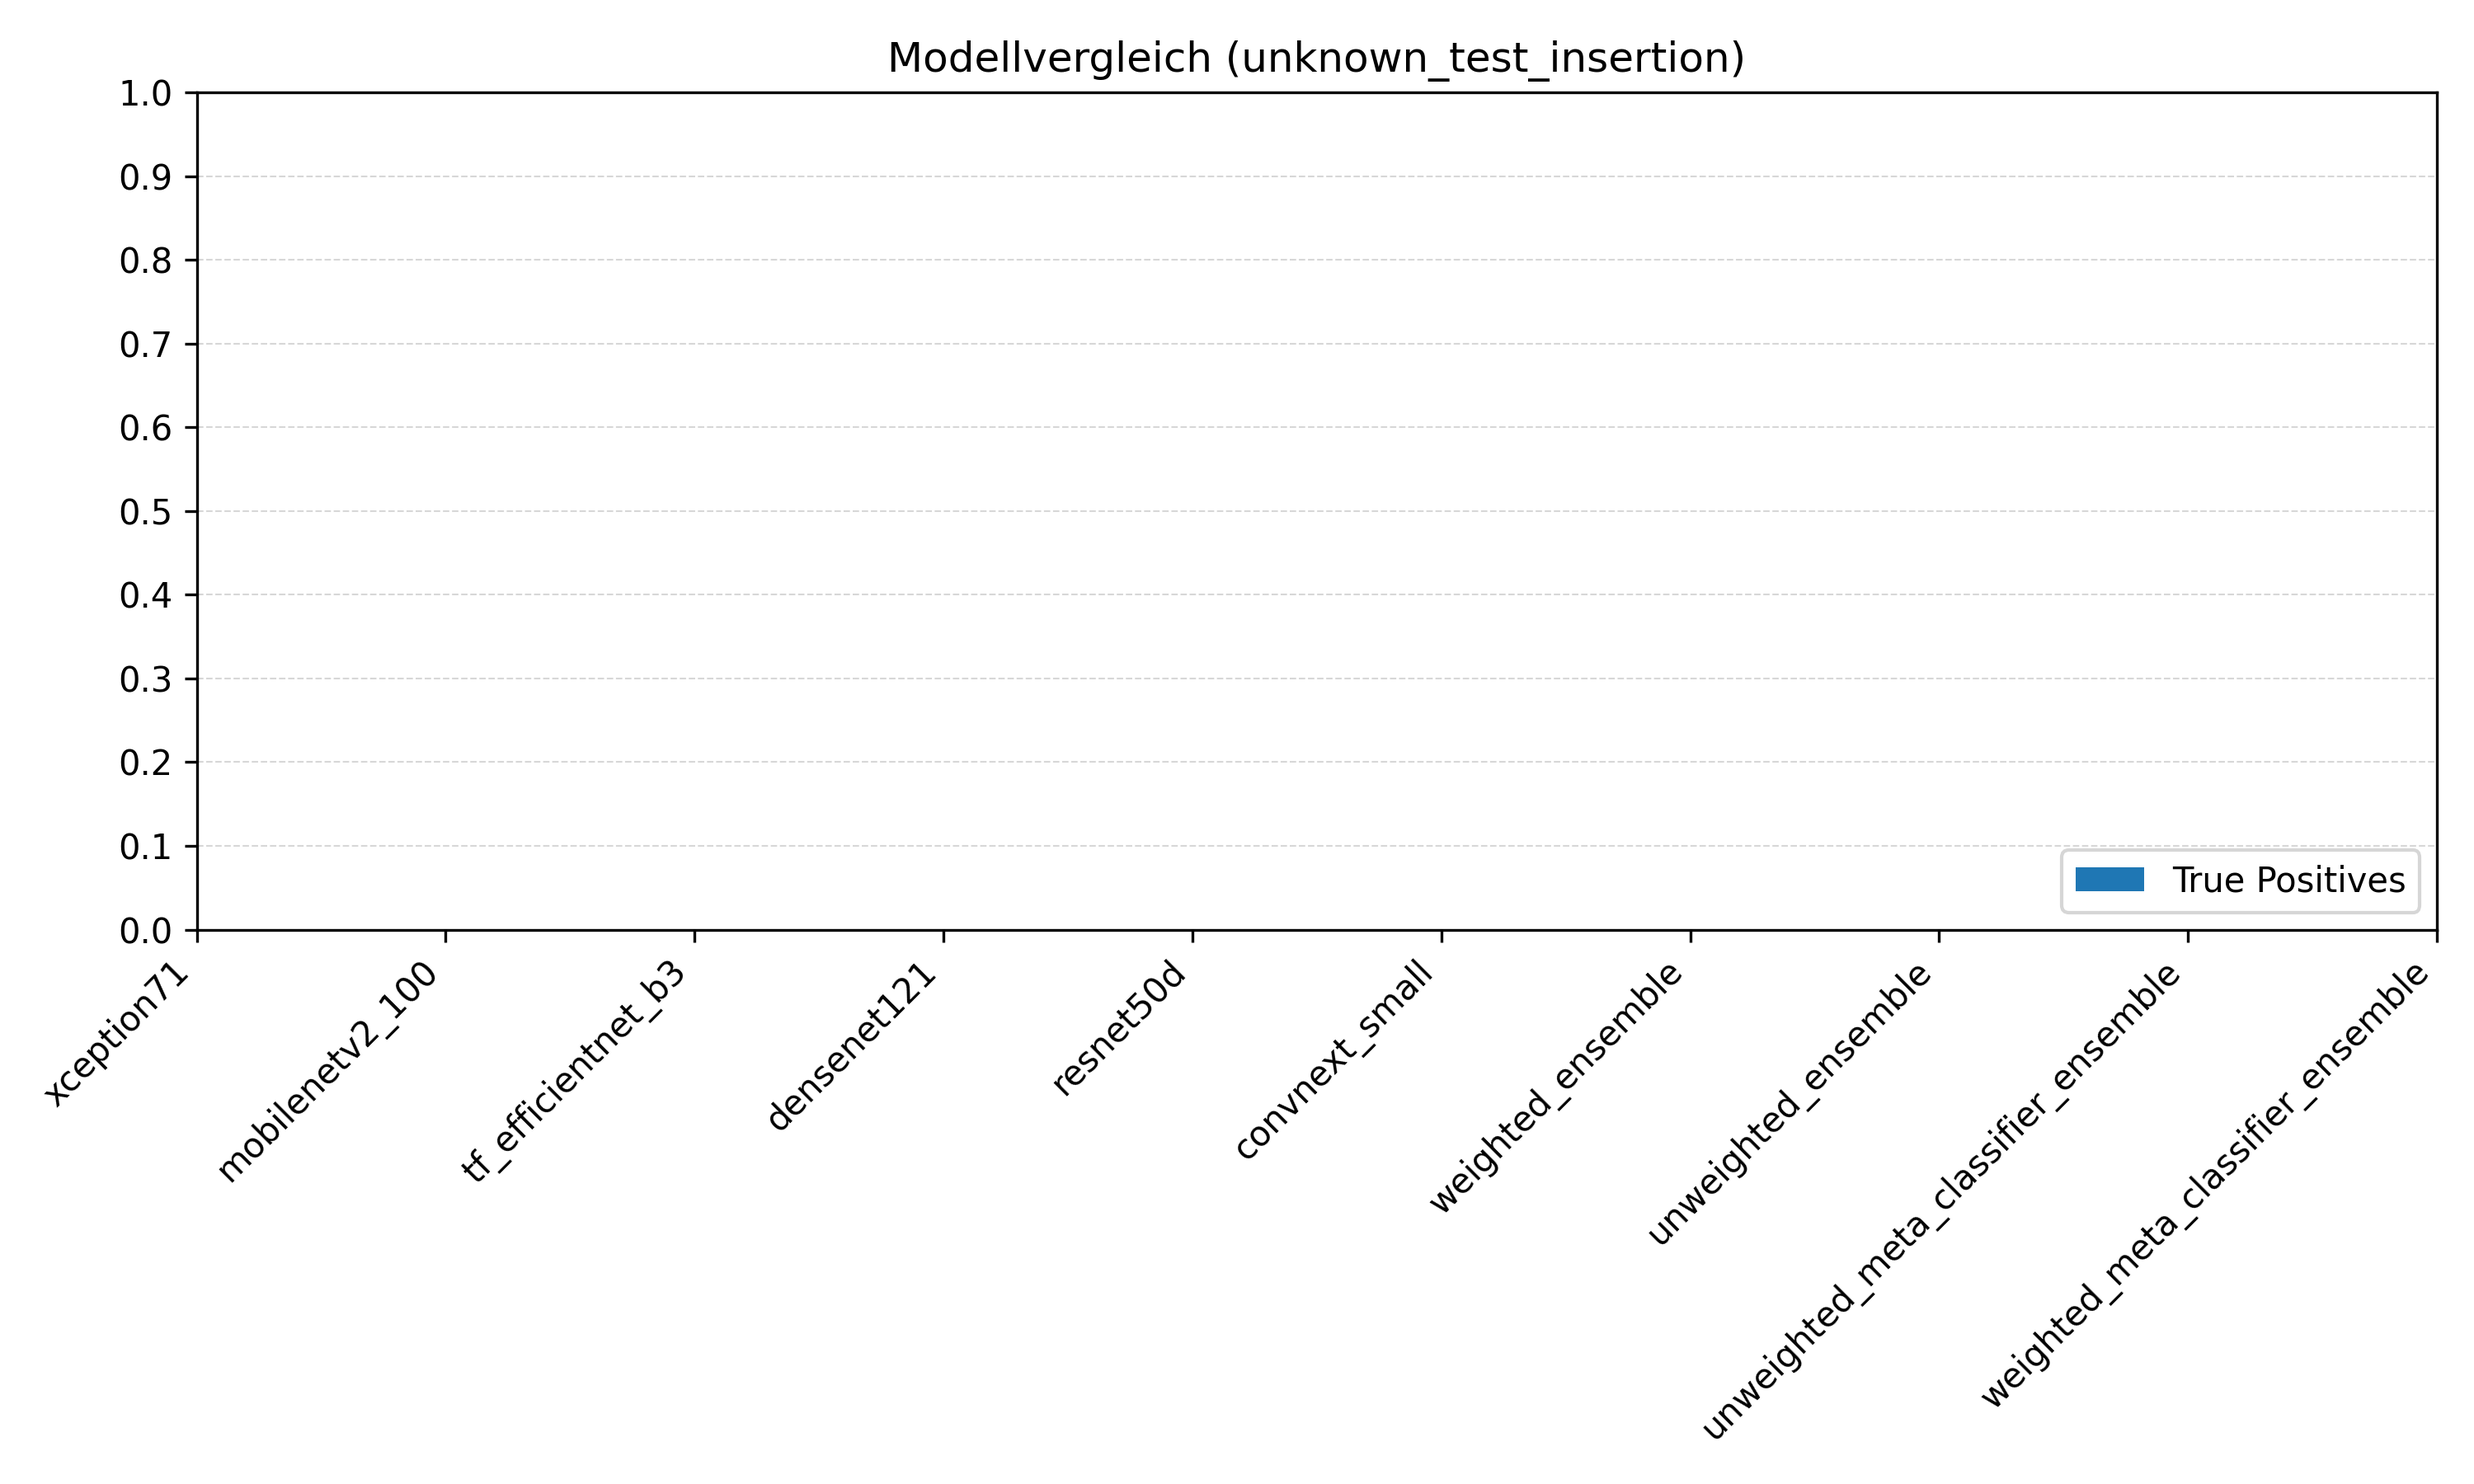
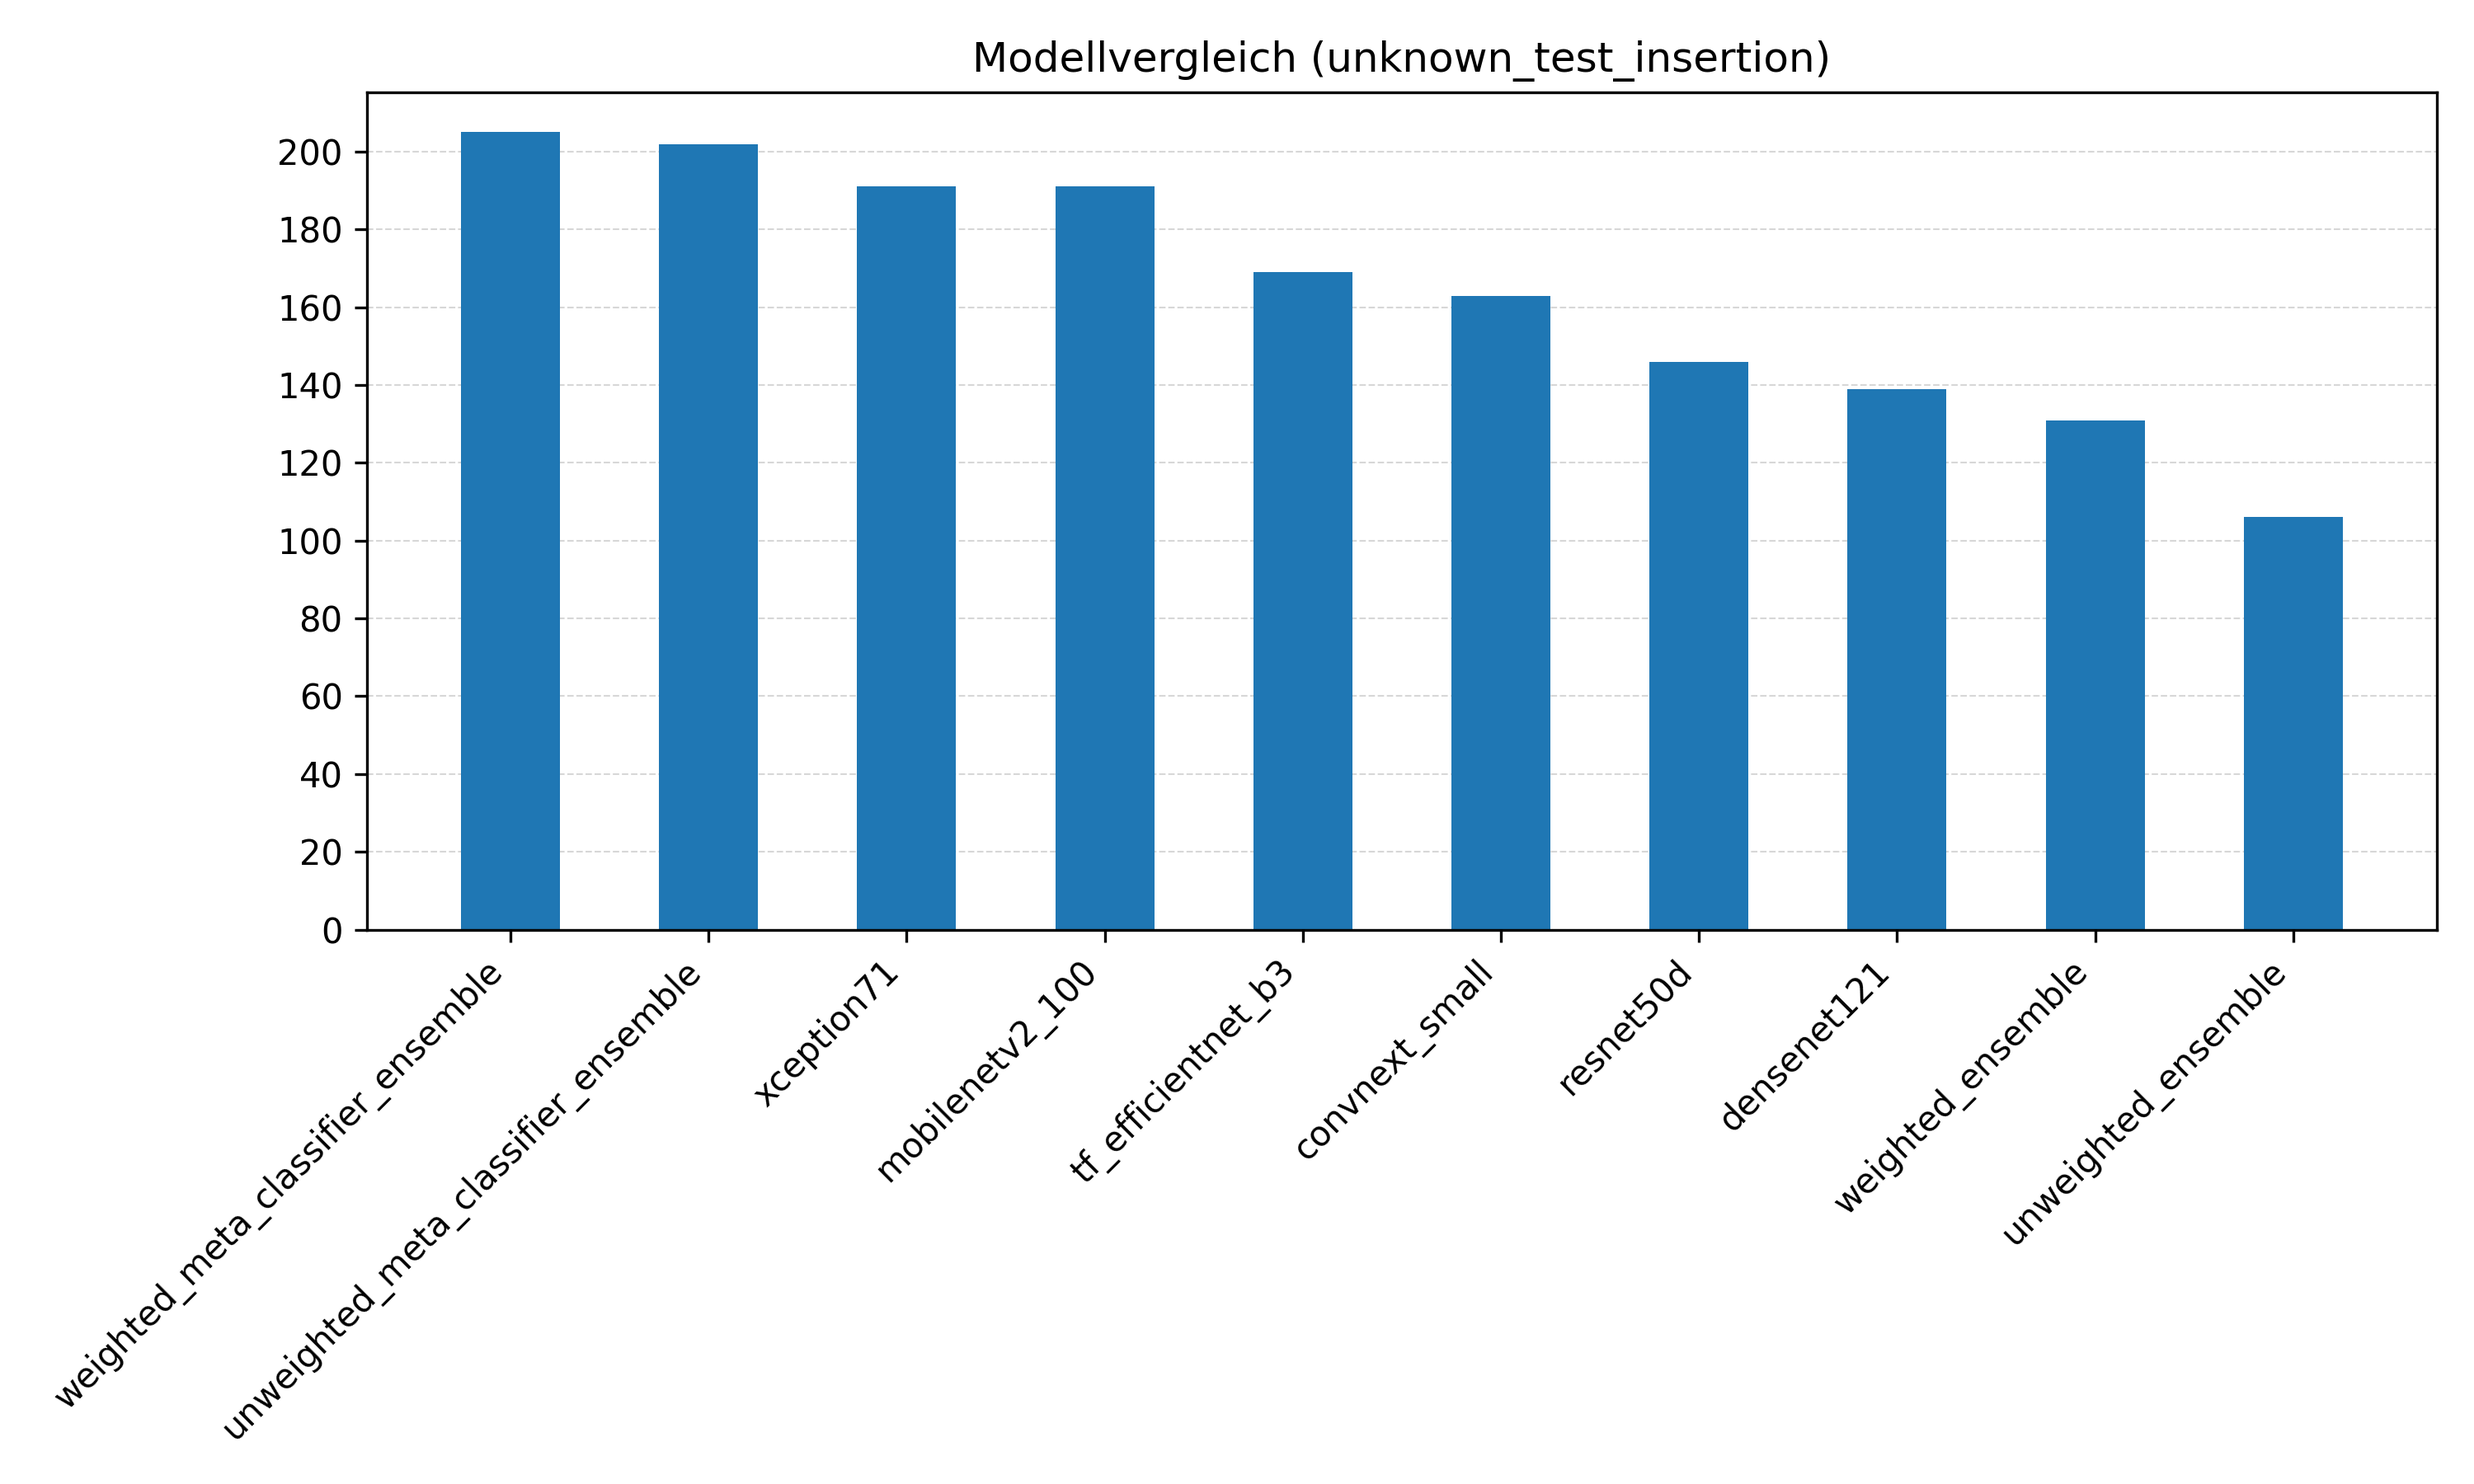
Fix TP value and improve bar plot in get_result_plots.py
Corrects the 'TP' value to use 'TN' in the data dictionary, updates the bar plot to use correct x-axis values, and adjusts y-axis locator for better visualization. Also removes unnecessary print statements and legend for cleaner output. Updates related comparison plot images.

diff --git a/utils/get_result_plots.py b/utils/get_result_plots.py
@@ -109,7 +109,7 @@ def get_test_plots():
             df = df.loc[df['TestVariante'] == variante]
             if df.empty:
                 continue
-            print(df.head())
+
             data.append({
                 "Model": model,
                 "Accuracy": df["Accuracy"].iloc[0],
@@ -117,7 +117,7 @@ def get_test_plots():
                 "Recall": df["Recall"].iloc[0],
                 "F1-Score": df["F1-Score"].iloc[0],
                 "ROC-AUC": df["ROC-AUC"].iloc[0],
-                "TP": df["TP"].iloc[0]
+                "TP": df["TN"].iloc[0]
             })
 
         if variante in ["known_test_insertion", "unknown_test_insertion"]:
@@ -138,21 +138,18 @@ def get_test_plots():
         # === Plot vorbereiten ===
         if variante in ["known_test_insertion", "unknown_test_insertion"]:
             x = np.arange(len(models))
-            width = 0.5
 
             fig, ax = plt.subplots(figsize=(10, 6))
-
-            ax.bar(width, tp, width, label="True Positives")
+            width = 0.5
+            ax.bar(x, tp, width, label="True Positives")
 
             # === Achsen und Beschriftung ===
             ax.set_title(f"Modellvergleich ({variante})")
             ax.set_xticks(x)
             ax.set_xticklabels(models, rotation=45, ha="right")
-            ax.set_ylim(0, 1.0)
-            ax.yaxis.set_major_locator(plt.MultipleLocator(0.1))
+            ax.yaxis.set_major_locator(plt.MultipleLocator(20))
             ax.grid(True, axis='y', linestyle='--', linewidth=0.5, alpha=0.5)
             ax.set_axisbelow(True)  # Linien hinter die Balken
-            ax.legend(ncol=2, fontsize=10, loc="lower right")
             plt.tight_layout()
 
             # === Speichern und Anzeigen ===
